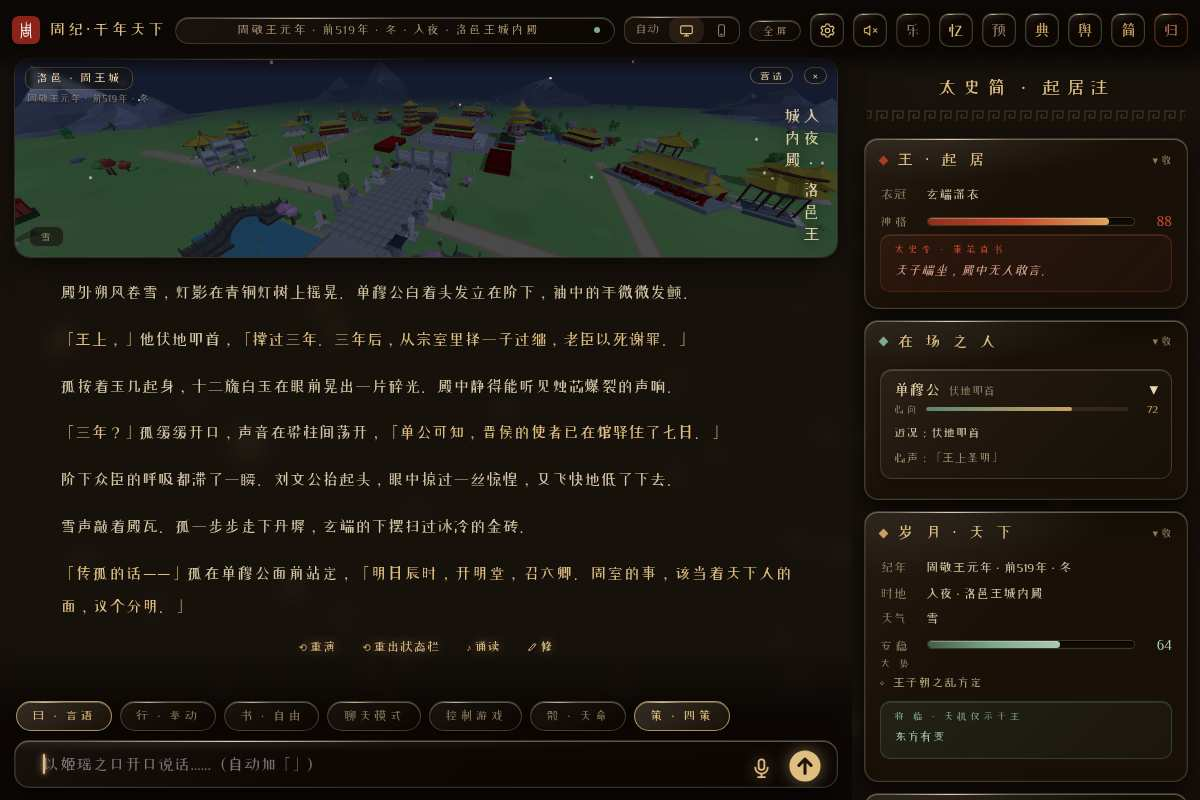
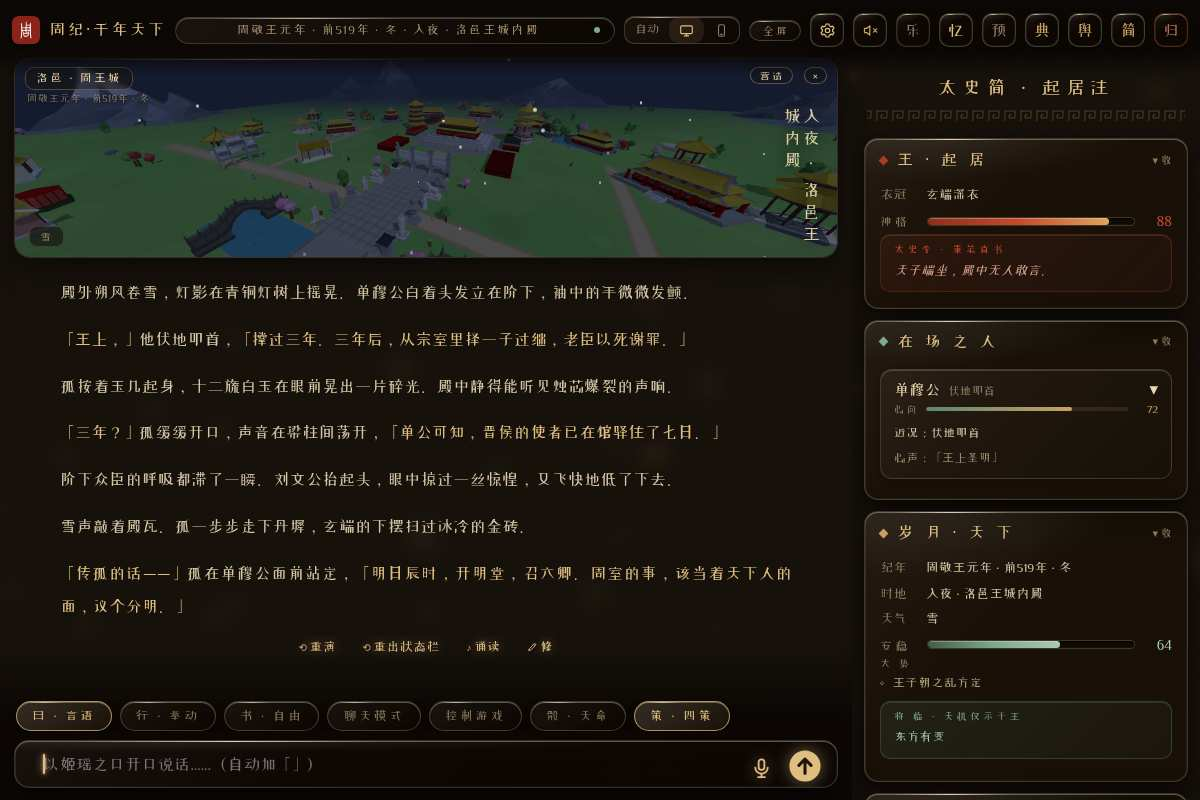
玻璃底区解挤压：输入区底距按50px切换框重算不再叠压；曰行书排回经典行距；textarea补min-width根治iOS发送钮顶出框；重拍玻璃演示图

diff --git a/zhouji.html b/zhouji.html
@@ -2555,11 +2555,16 @@ function storyPane(){
      光晕最大半径约 60px（爆散 44px+12px 扩散），内边距垂直 64 / 水平 60，全部用负 margin 抵消——
      布局占位与从前逐像素相同，裁剪边却永远接触不到任何光。行本体 pointer-events:none
      （巨大的透明翻边不吃正文/输入框/四策的点击），各选项字自己 pointer-events:auto。 */
-  var _chipsRow='<div id="zjChipsRow" style="pointer-events:none;position:relative;display:flex;gap:'+(mob?'6px':'8px')+';margin:-62px -58px '+(mob?'-60px':'-55px')+';padding:64px 60px;overflow-x:auto;flex-wrap:nowrap;scrollbar-width:none;-webkit-overflow-scrolling:touch">'+chips+(glassUI()?'':_modeBall)+'</div>';
+  /* 玻璃(经典)风格：药丸框无光晕，用经典的常规行几何＋稍宽下距（三层框叠放要留呼吸）；
+     极简风格：柔光行的巨幅内边距+负 margin 抵消——裁剪边推到光晕够不着的地方，占位与经典逐像素相同 */
+  var _chipsRow=glassUI()
+    ?'<div id="zjChipsRow" style="pointer-events:auto;position:relative;display:flex;gap:'+(mob?'6px':'8px')+';margin-bottom:'+(mob?'7px':'8px')+';padding:2px 2px 1px;overflow-x:auto;flex-wrap:nowrap;scrollbar-width:none;-webkit-overflow-scrolling:touch">'+chips+'</div>'
+    :'<div id="zjChipsRow" style="pointer-events:none;position:relative;display:flex;gap:'+(mob?'6px':'8px')+';margin:-62px -58px '+(mob?'-60px':'-55px')+';padding:64px 60px;overflow-x:auto;flex-wrap:nowrap;scrollbar-width:none;-webkit-overflow-scrolling:touch">'+chips+_modeBall+'</div>';
   var _taSh=INPUTGLASS?';text-shadow:0 1px 4px rgba(0,0,0,.95),0 0 2px rgba(0,0,0,.85)':'';
   var _micBtn=(sttOK()&&(S.micOn===true||(S.micOn==null&&!mob)))?'<button id="zjMicBtn" data-act="micTog" class="btn" title="语音输入（说完自动停）" style="flex:none;background:transparent;border:none;padding:3px;cursor:pointer;color:'+(S.rec?'#e06a50':'var(--gold2)')+';filter:drop-shadow(0 0 7px '+(S.rec?'rgba(224,106,80,.7)':'rgba(224,190,130,.5)')+')">'+micIcon(mob?21:23,S.rec)+'</button>':'';
   var _sendBtn='<button data-act="send" class="btn" title="递呈（回车）" style="flex:none;background:transparent;border:none;padding:0;cursor:pointer;filter:drop-shadow(0 0 8px rgba(224,190,130,.5));opacity:'+(S.thinking?.5:1)+'">'+sendIcon(mob?32:34)+'</button>';
-  var _ta='<textarea id="zjInput" rows="1" placeholder="'+esc(ph)+'" style="flex:1;resize:none;overflow-y:hidden;background:transparent;border:none;outline:none;color:var(--gold3)'+_taSh+';font-size:16px;line-height:1.65;padding:'+(mob?'6px 2px 6px 11px':'6px 2px 6px 13px')+';caret-color:var(--gold2)">'+esc(S.input)+'</textarea>';
+  /* min-width:0 必须有：flex 项默认最小宽=内容宽，iOS Safari 会按长占位符把行撑破、发送钮被顶出框外 */
+  var _ta='<textarea id="zjInput" rows="1" placeholder="'+esc(ph)+'" style="flex:1;min-width:0;resize:none;overflow-y:hidden;background:transparent;border:none;outline:none;color:var(--gold3)'+_taSh+';font-size:16px;line-height:1.65;padding:'+(mob?'6px 2px 6px 11px':'6px 2px 6px 13px')+';caret-color:var(--gold2)">'+esc(S.input)+'</textarea>';
   var _caret='<span class="zjCaretHint" aria-hidden="true" style="position:absolute;left:'+(mob?'11px':'13px')+';top:50%;transform:translateY(-50%);width:2px;height:20px;border-radius:2px;background:var(--gold2);box-shadow:0 0 9px rgba(224,190,130,.95),0 0 3px rgba(224,190,130,.85);animation:zjCaretBlink 1.1s infinite;pointer-events:none;z-index:1"></span>';
   var _cmd=(S.cmdHint?'<div id="zjCmdHint" style="margin-top:6px;font-size:12.5px;line-height:1.6;color:#d9a06a'+(INPUTGLASS?';text-shadow:0 1px 3px rgba(0,0,0,.9)':'')+'">令未行：'+esc(S.cmdHint)+'</div>':'');
   var _row='<div style="display:flex;gap:'+(mob?'8px':'12px')+';align-items:flex-end;position:relative">'+_ta+_caret+_micBtn+_sendBtn+'</div>';
@@ -2580,7 +2585,8 @@ function storyPane(){
     : '<div class="glass" style="pointer-events:auto;padding:'+(mob?'3px 13px':'4px 15px')+';border-radius:15px">'+_row+_cmd+'</div>';
   /* 底部渐变毛玻璃背板（默认样式）：与自定义开局同款——从输入区往下罩住屏幕底、向上淡出，输入内容悬浮其上、字带阴影清晰可读 */
   /* 液态玻璃：几乎看不见的透明质感——主要靠强背景模糊把身后内容柔化（利于阅读），只加一丝极淡暖调，绝不是黑色遮罩。整层用 mask 向上淡出。 */
-  var input='<div id="zjInWrap" style="position:absolute;left:'+(mob?'8px':'14px')+';right:'+(mob?'8px':'14px')+';bottom:'+(mob?'calc(52px + env(safe-area-inset-bottom))':'12px')+';z-index:5;pointer-events:none">'
+  /* 输入区底距按下方切换件实高留位：玻璃(经典)手机版是 50px 玻璃框(底距8)→68 才不叠；极简小岛 34px(底距11)→52 恰好 */
+  var input='<div id="zjInWrap" style="position:absolute;left:'+(mob?'8px':'14px')+';right:'+(mob?'8px':'14px')+';bottom:'+(mob?(glassUI()?'calc(68px + env(safe-area-inset-bottom))':'calc(52px + env(safe-area-inset-bottom))'):'12px')+';z-index:5;pointer-events:none">'
     +'<div style="max-width:860px;margin:0 auto;position:relative">'
     +_suggRow+_chipsRow+_inputBox
     +'</div></div>';
@@ -2601,7 +2607,7 @@ function storyPane(){
   /* 玻璃(经典)风格底部背板：曰行书排/输入框/叙事·太史简都是半透明玻璃件，正文滚到底下会透穿显字——
      垫一层向上渐隐的近实底幕布（极简风格用渐变毛玻璃+柔光字，不需要它）。 */
   var botScrim=(glassUI()&&!S.zen&&!S.worldFull)
-    ?'<div id="zjBotScrim" aria-hidden="true" style="position:absolute;left:0;right:0;bottom:0;height:calc('+(mob?'206px':'150px')+' + env(safe-area-inset-bottom,0px));z-index:4;pointer-events:none;background:linear-gradient(0deg,rgba(12,8,5,.97) 0%,rgba(12,8,5,.95) calc(100% - 60px),rgba(12,8,5,0) 100%)"></div>':'';
+    ?'<div id="zjBotScrim" aria-hidden="true" style="position:absolute;left:0;right:0;bottom:0;height:calc('+(mob?'228px':'150px')+' + env(safe-area-inset-bottom,0px));z-index:4;pointer-events:none;background:linear-gradient(0deg,rgba(12,8,5,.97) 0%,rgba(12,8,5,.95) calc(100% - 60px),rgba(12,8,5,0) 100%)"></div>':'';
   return '<div class="col grow" style="position:relative">'+blurLayer+scene+botScrim+'<div id="zjStory" class="grow bamboo" style="overflow-y:auto;position:relative;z-index:1;padding:'+((S.zen&&!S.zenWorld)?56:(barH+sceneH+18))+'px clamp(16px,5vw,70px) '+(S.zen?'46px':(mob?'calc(186px + env(safe-area-inset-bottom))':'160px'))+';background:transparent'+''+'"><div data-zjzoom style="max-width:820px;margin:0 auto;zoom:'+FS+'">'+items+thinking+'</div></div>'+input+'</div>';
 }
 function gameView(){
